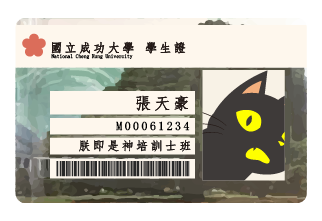
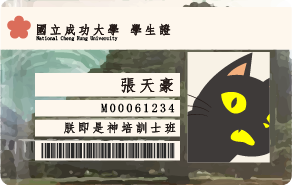
update

diff --git a/public/RPG.css b/public/RPG.css
@@ -214,3 +214,11 @@ div{
     z-index: 2000;
     cursor: pointer;
 }
+
+.object img {
+    border: 1px solid rgba(0, 0, 0, .1);
+    border-radius: 3px;
+    box-shadow: 0 10px 30px -8px #000;
+    -webkit-transition: all .3s ease;
+    transition: all .3s ease;
+}
